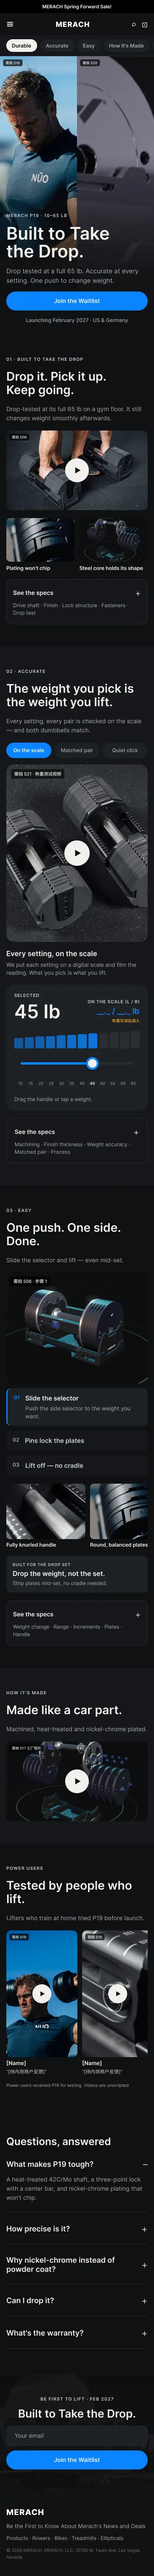
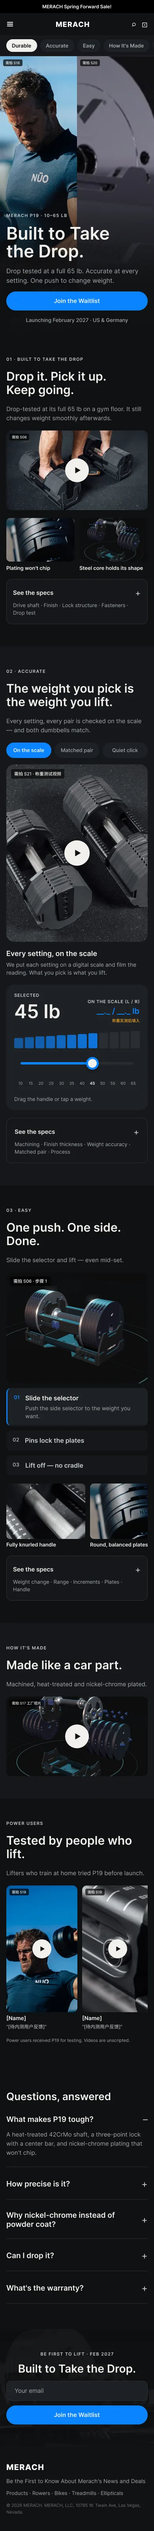
Explore V7: compress Easy screen, tidy Figma canvas layout, update screen ratios
Claude-Session: https://claude.ai/code/session_01RNRjNYdB2DmXKuzbHkJAw4

diff --git a/handoff.html b/handoff.html
@@ -47,21 +47,21 @@ blockquote{margin:12px 0;padding:8px 14px;border-left:3px solid var(--accent);ba
 <li>屏占比口径：PC 按视口 1440×900 计 1 屏，Mobile 按 390×844 计 1 屏。</li>
 <li>英文主张 Built to Take the Drop 已确定；页面按“主张 → 三支柱”组织。</li></ul>
 <h2>二、屏占比</h2>
-<p>首屏全屏：Header + Hero 合计正好 1 屏（PC 1440×900、Mobile 390×844）。Header 含支柱导航，支柱导航吸顶。Accurate 与 Easy 承载演示与交互，允许超过 1 屏。</p>
-<div class="tw"><table><thead><tr><th>模块</th><th>锚点</th><th>PC 高度 px</th><th>PC 屏占比</th><th>Mobile 高度 px</th><th>Mobile 屏占比</th></tr></thead><tbody><tr><td>Header（广告位 + 导航 + 支柱导航，吸顶）</td><td>—</td><td>165</td><td>0.18</td><td>142</td><td>0.17</td></tr><tr><td>Screen 1 · Hero（全屏）</td><td>#top</td><td>735</td><td>0.82（与 Header 合计 1.00）</td><td>702</td><td>0.83（与 Header 合计 1.00）</td></tr><tr><td>Screen 2 · Durable（耐摔）</td><td>#durable</td><td>945</td><td>1.05</td><td>788</td><td>0.93</td></tr><tr><td>Screen 3 · Accurate（高精度）</td><td>#accurate</td><td>1372</td><td>1.52</td><td>1361</td><td>1.61</td></tr><tr><td>Screen 4 · Easy（易用 + 细节 + Drop Set）</td><td>#easy</td><td>1399</td><td>1.55</td><td>1218</td><td>1.44</td></tr><tr><td>Screen 5 · How It’s Made（工艺短片）</td><td>#made</td><td>940</td><td>1.04</td><td>443</td><td>0.52</td></tr><tr><td>Screen 6 · Power Users</td><td>#power-users</td><td>862</td><td>0.96</td><td>673</td><td>0.80</td></tr><tr><td>Screen 7 · FAQ</td><td>#faq</td><td>752</td><td>0.84</td><td>667</td><td>0.79</td></tr><tr><td>Waitlist</td><td>#waitlist</td><td>396</td><td>0.44</td><td>297</td><td>0.35</td></tr><tr><td>Footer</td><td>—</td><td>260</td><td>0.29</td><td>213</td><td>0.25</td></tr><tr><td><b>合计</b></td><td></td><td><b>7826</b></td><td><b>8.70 屏</b></td><td><b>6504</b></td><td><b>7.71 屏</b></td></tr></tbody></table></div>
+<p>首屏全屏：Header + Hero 合计正好 1 屏（PC 1440×900、Mobile 390×844）。Header 含支柱导航，支柱导航吸顶。Accurate 承载画廊与滑块，允许约 1.5 屏；Easy 已压缩到约 1.3 屏（细节图与 Drop Set 卡同排）。</p>
+<div class="tw"><table><thead><tr><th>模块</th><th>锚点</th><th>PC 高度 px</th><th>PC 屏占比</th><th>Mobile 高度 px</th><th>Mobile 屏占比</th></tr></thead><tbody><tr><td>Header（广告位 + 导航 + 支柱导航，吸顶）</td><td>—</td><td>165</td><td>0.18</td><td>142</td><td>0.17</td></tr><tr><td>Screen 1 · Hero（全屏）</td><td>#top</td><td>735</td><td>0.82（与 Header 合计 1.00）</td><td>702</td><td>0.83（与 Header 合计 1.00）</td></tr><tr><td>Screen 2 · Durable（耐摔）</td><td>#durable</td><td>945</td><td>1.05</td><td>788</td><td>0.93</td></tr><tr><td>Screen 3 · Accurate（高精度）</td><td>#accurate</td><td>1372</td><td>1.52</td><td>1361</td><td>1.61</td></tr><tr><td>Screen 4 · Easy（易用 + 细节 + Drop Set）</td><td>#easy</td><td>1146</td><td>1.27</td><td>1105</td><td>1.31</td></tr><tr><td>Screen 5 · How It’s Made（工艺短片）</td><td>#made</td><td>940</td><td>1.04</td><td>443</td><td>0.52</td></tr><tr><td>Screen 6 · Power Users</td><td>#power-users</td><td>862</td><td>0.96</td><td>673</td><td>0.80</td></tr><tr><td>Screen 7 · FAQ</td><td>#faq</td><td>752</td><td>0.84</td><td>667</td><td>0.79</td></tr><tr><td>Waitlist</td><td>#waitlist</td><td>396</td><td>0.44</td><td>297</td><td>0.35</td></tr><tr><td>Footer</td><td>—</td><td>260</td><td>0.29</td><td>213</td><td>0.25</td></tr><tr><td><b>合计</b></td><td></td><td><b>7573</b></td><td><b>8.41 屏</b></td><td><b>6391</b></td><td><b>7.57 屏</b></td></tr></tbody></table></div>
 <h2>三、全局规范</h2>
 <h3>颜色</h3><div class="tw"><table><thead><tr><th>用途</th><th>色值</th><th>使用位置</th></tr></thead><tbody><tr><td>页面底</td><td>#0F1012</td><td>Hero、Durable、Accurate、FAQ</td></tr><tr><td>区块底</td><td>#16181B</td><td>支柱导航、规格抽屉、Easy</td></tr><tr><td>卡片</td><td>#1E2125</td><td>证据卡、滑块面板、画廊当前标签</td></tr><tr><td>分隔线</td><td>#2A2E33</td><td>卡片描边、三栏分隔</td></tr><tr><td>主文字</td><td>#F1F0EC</td><td>标题、强调</td></tr><tr><td>辅助文字</td><td>#A3A7AD</td><td>正文、说明</td></tr><tr><td>钢灰</td><td>#C7CCD2</td><td>Eyebrow、图形线条</td></tr><tr><td>主色</td><td>#0A84FF</td><td>按钮、滑块、当前标签与配重片高亮</td></tr><tr><td>待确认标记</td><td>#F5A524</td><td>仅设计稿使用，上线前删除</td></tr></tbody></table></div>
 <h3>字号</h3><p>设计稿字体为 Inter；如独立站已有品牌字体，以站内字体为准，字号与字重按下表。</p><div class="tw"><table><thead><tr><th>层级</th><th>PC</th><th>Mobile</th></tr></thead><tbody><tr><td>H1</td><td>72 / Semi Bold，行高 102%</td><td>44 / Semi Bold</td></tr><tr><td>H2</td><td>46 / Semi Bold</td><td>30 / Semi Bold</td></tr><tr><td>Eyebrow</td><td>12 / Semi Bold，全大写，字距 14%</td><td>11 / Semi Bold</td></tr><tr><td>正文</td><td>18 / Regular，行高 155%</td><td>15 / Regular</td></tr><tr><td>卡片标题</td><td>17 / Semi Bold</td><td>14 / Semi Bold</td></tr><tr><td>说明</td><td>14 / Regular</td><td>12–13 / Regular</td></tr><tr><td>按钮</td><td>15 / Semi Bold，高 52，全圆角</td><td>同 PC，通栏</td></tr></tbody></table></div>
 <p>圆角：图片与卡片 12–16，按钮与胶囊全圆角。屏与屏之间不留间距，靠 #0F1012 / #16181B 交替区分。</p>
 <h2>四、部件说明</h2>
-<div class="tw"><table><thead><tr><th>部件</th><th>位置</th><th>PC</th><th>Mobile</th><th>交互与状态</th></tr></thead><tbody><tr><td>顶部广告位 / 导航栏</td><td>全站</td><td>复用现有 Header</td><td>复用移动端 Header</td><td>随页面滚走</td></tr><tr><td>支柱导航</td><td>Header 下方</td><td>高 64，6 个锚点 + 上市时间 + Mini CTA</td><td>高 53，横滑胶囊</td><td>吸顶（sticky）、滚动高亮、平滑滚动</td></tr><tr><td>Hero</td><td>Screen 1</td><td>高 = 100vh − Header；人物 / 产品各 720 宽铺满；左侧渐变，文案垂直居中</td><td>高 = 100vh − Header；人物 / 产品各 195 宽铺满；底部渐变，文案压在底部</td><td>一个主按钮 + 上市时间</td></tr><tr><td>视频位 + 弹窗</td><td>Screen 2、3、5、6</td><td>16:9；竖版 224×398</td><td>全屏弹窗</td><td>点击播放，关闭停止</td></tr><tr><td>证据卡</td><td>Screen 2</td><td>右侧两张产品图卡</td><td>两列</td><td>静态</td></tr><tr><td>精度画廊（Accurate Proof Gallery）</td><td>Screen 3</td><td>左大图 788×500 + 右侧 3 张标签卡</td><td>标签 + 大图 358×448 + 说明</td><td>点击切换；Mobile 可左右滑动</td></tr><tr><td>拖拽重量滑块（Weight Drag Slider）</td><td>Screen 3</td><td>宽 1200；大数字 + 左 / 右实测读数 + 12 段配重片 + 滑轨 + 刻度</td><td>宽 358，同结构</td><td>拖拽 / 点击刻度，吸附 5 lb</td></tr><tr><td>See the specs（规格抽屉）</td><td>Screen 2、3、4</td><td>收起时显示规格项目名；展开为三列表格</td><td>展开为纵向堆叠</td><td>点击展开 / 收起</td></tr><tr><td>步骤演示</td><td>Screen 4</td><td>主图 640×420 + 右侧 3 步</td><td>主图 358×280 + 纵向 3 步</td><td>点击切换；Mobile 可滑动</td></tr><tr><td>细节卡</td><td>Screen 4</td><td>3 张产品图 384×160</td><td>横滑 200×140</td><td>静态</td></tr><tr><td>Drop Set 模块</td><td>Screen 4</td><td>卡片内 3 张 140×110</td><td>文字卡</td><td>注释必须保留</td></tr><tr><td>工艺标签</td><td>Screen 5</td><td>3 个胶囊</td><td>—</td><td>静态</td></tr><tr><td>内测用户视频卡</td><td>Screen 6</td><td>5 张 9:16 卡片</td><td>横滑 4 张</td><td>点击竖版弹窗播放；FTC 披露</td></tr><tr><td>FAQ</td><td>Screen 7</td><td>宽 1200</td><td>通栏</td><td>手风琴；FAQPage 结构化数据</td></tr><tr><td>Waitlist 表单</td><td>Waitlist</td><td>输入框 + 按钮横排</td><td>上下堆叠</td><td>默认 / 加载 / 成功 / 错误</td></tr><tr><td>Footer</td><td>全站</td><td>复用</td><td>复用</td><td>不新开发</td></tr></tbody></table></div>
+<div class="tw"><table><thead><tr><th>部件</th><th>位置</th><th>PC</th><th>Mobile</th><th>交互与状态</th></tr></thead><tbody><tr><td>顶部广告位 / 导航栏</td><td>全站</td><td>复用现有 Header</td><td>复用移动端 Header</td><td>随页面滚走</td></tr><tr><td>支柱导航</td><td>Header 下方</td><td>高 64，6 个锚点 + 上市时间 + Mini CTA</td><td>高 53，横滑胶囊</td><td>吸顶（sticky）、滚动高亮、平滑滚动</td></tr><tr><td>Hero</td><td>Screen 1</td><td>高 = 100vh − Header；人物 / 产品各 720 宽铺满；左侧渐变，文案垂直居中</td><td>高 = 100vh − Header；人物 / 产品各 195 宽铺满；底部渐变，文案压在底部</td><td>一个主按钮 + 上市时间</td></tr><tr><td>视频位 + 弹窗</td><td>Screen 2、3、5、6</td><td>16:9；竖版 224×398</td><td>全屏弹窗</td><td>点击播放，关闭停止</td></tr><tr><td>证据卡</td><td>Screen 2</td><td>右侧两张产品图卡</td><td>两列</td><td>静态</td></tr><tr><td>精度画廊（Accurate Proof Gallery）</td><td>Screen 3</td><td>左大图 788×500 + 右侧 3 张标签卡</td><td>标签 + 大图 358×448 + 说明</td><td>点击切换；Mobile 可左右滑动</td></tr><tr><td>拖拽重量滑块（Weight Drag Slider）</td><td>Screen 3</td><td>宽 1200；大数字 + 左 / 右实测读数 + 12 段配重片 + 滑轨 + 刻度</td><td>宽 358，同结构</td><td>拖拽 / 点击刻度，吸附 5 lb</td></tr><tr><td>See the specs（规格抽屉）</td><td>Screen 2、3、4</td><td>收起时显示规格项目名；展开为三列表格</td><td>展开为纵向堆叠</td><td>点击展开 / 收起</td></tr><tr><td>步骤演示</td><td>Screen 4</td><td>主图 640×420 + 右侧 3 步</td><td>主图 358×280 + 纵向 3 步</td><td>点击切换；Mobile 可滑动</td></tr><tr><td>细节卡 + Drop Set 卡</td><td>Screen 4</td><td>四卡同排：3 张产品图 282×140 + 1 张 Drop Set 文字卡</td><td>同一行横滑 200×162 ×4</td><td>静态；Drop Set 注释必须保留</td></tr><tr><td>工艺标签</td><td>Screen 5</td><td>3 个胶囊</td><td>—</td><td>静态</td></tr><tr><td>内测用户视频卡</td><td>Screen 6</td><td>5 张 9:16 卡片</td><td>横滑 4 张</td><td>点击竖版弹窗播放；FTC 披露</td></tr><tr><td>FAQ</td><td>Screen 7</td><td>宽 1200</td><td>通栏</td><td>手风琴；FAQPage 结构化数据</td></tr><tr><td>Waitlist 表单</td><td>Waitlist</td><td>输入框 + 按钮横排</td><td>上下堆叠</td><td>默认 / 加载 / 成功 / 错误</td></tr><tr><td>Footer</td><td>全站</td><td>复用</td><td>复用</td><td>不新开发</td></tr></tbody></table></div>
 <h2>五、交互清单</h2>
 <div class="tw"><table><thead><tr><th>元素</th><th>交互</th></tr></thead><tbody><tr><td>Join the Waitlist（首屏、吸顶导航）</td><td>悬停变色；点击滚动到 #waitlist</td></tr><tr><td>支柱导航（吸顶）</td><td>position: sticky; top: 0，滚动后一直置顶；当前所在屏高亮；点击平滑滚动。锚点：Durable / Accurate / Easy / How It’s Made / Power Users / FAQ</td></tr><tr><td>视频播放按钮</td><td>点击弹窗播放：跌落测试、称重测试、工厂短片、内测用户竖版视频；Mobile 为全屏</td></tr><tr><td>精度画廊</td><td>PC：点击右侧三张标签卡切换左侧大图；Mobile：点击标签或左右滑动切换；称重卡带播放按钮</td></tr><tr><td>拖拽重量滑块</td><td>拖动把手或点击刻度，10–65 lb 每 5 lb 一档，吸附到档位；大数字、配重片高亮、左 / 右实测读数同步变化（实测值称重后填入）</td></tr><tr><td>See the specs</td><td>点击展开 / 收起；展开为“规格 / 参数 / 对用户意味着什么”，PC 三列表格，Mobile 纵向堆叠；三屏各 5 行</td></tr><tr><td>Easy 步骤</td><td>PC 点击 01 / 02 / 03 切换主图；Mobile 点击步骤或左右滑动图片切换</td></tr><tr><td>FAQ 手风琴</td><td>默认展开第 1 条，同时只展开 1 条</td></tr><tr><td>Waitlist 表单</td><td>提交 → 加载 → 成功；错误态（PC 与 Mobile 一致）</td></tr></tbody></table></div>
 <p>所有组件的状态（悬停、展开、切换、表单流程）已在 Figma 组件区全部展开，可直接在原型中点击体验：</p>
 <img src="assets/explore-v5-components.webp" alt="Explore V7 交互组件与状态" loading="lazy">
 <h2>六、图片与视频位</h2>
 <p>请按下表尺寸出 2 倍图，格式 WebP；视频提供 MP4（H.264）与封面图。当前全部为占位图，上线前替换为实拍。</p>
-<div class="tw"><table><thead><tr><th>图位（拍摄编号）</th><th>PC 尺寸</th><th>Mobile 尺寸</th><th>说明</th></tr></thead><tbody><tr><td>hero 人物（S18）</td><td>720×735</td><td>195×702</td><td>人物使用场景，竖向裁切需保留人物主体</td></tr><tr><td>hero 产品静物（S20）</td><td>720×735</td><td>195×702</td><td>居家空间中的 P19</td></tr><tr><td>跌落测试（S06）</td><td>792×446 + MP4</td><td>358×201</td><td>正式跌落测试视频</td></tr><tr><td>称重测试（S21）</td><td>788×500 + MP4</td><td>358×448</td><td>各档上秤，读数特写</td></tr><tr><td>天平（S22）</td><td>788×500</td><td>358×448</td><td>两只等重，天平水平</td></tr><tr><td>插销微距（S23）</td><td>788×500 + MP4</td><td>358×448</td><td>插销慢动作，同期收音</td></tr><tr><td>证据卡（S07、S15）</td><td>384×140</td><td>173×110</td><td>爆炸图；电镀表面</td></tr><tr><td>步骤（S03–S05）</td><td>640×420 ×3</td><td>358×280 ×3</td><td>建议静音循环短视频</td></tr><tr><td>细节（S14、S15）</td><td>384×160 ×3</td><td>200×140 ×3</td><td>握把、圆形配重、档位</td></tr><tr><td>工厂短片（S17）</td><td>1200×540 + MP4</td><td>358×201</td><td>15 秒：机加工、热处理、电镀</td></tr><tr><td>内测用户（S19）</td><td>224×398 封面 + 9:16 MP4 ×5</td><td>180×320 ×4</td><td>由内测用户提供</td></tr><tr><td>waitlist bg</td><td>1440×396</td><td>390×297</td><td>文字区压暗</td></tr></tbody></table></div>
+<div class="tw"><table><thead><tr><th>图位（拍摄编号）</th><th>PC 尺寸</th><th>Mobile 尺寸</th><th>说明</th></tr></thead><tbody><tr><td>hero 人物（S18）</td><td>720×735</td><td>195×702</td><td>人物使用场景，竖向裁切需保留人物主体</td></tr><tr><td>hero 产品静物（S20）</td><td>720×735</td><td>195×702</td><td>居家空间中的 P19</td></tr><tr><td>跌落测试（S06）</td><td>792×446 + MP4</td><td>358×201</td><td>正式跌落测试视频</td></tr><tr><td>称重测试（S21）</td><td>788×500 + MP4</td><td>358×448</td><td>各档上秤，读数特写</td></tr><tr><td>天平（S22）</td><td>788×500</td><td>358×448</td><td>两只等重，天平水平</td></tr><tr><td>插销微距（S23）</td><td>788×500 + MP4</td><td>358×448</td><td>插销慢动作，同期收音</td></tr><tr><td>证据卡（S07、S15）</td><td>384×140</td><td>173×110</td><td>爆炸图；电镀表面</td></tr><tr><td>步骤（S03–S05）</td><td>640×420 ×3</td><td>358×280 ×3</td><td>建议静音循环短视频</td></tr><tr><td>细节（S14、S15）</td><td>282×140 ×3</td><td>200×140 ×3</td><td>握把、圆形配重、档位</td></tr><tr><td>工厂短片（S17）</td><td>1200×540 + MP4</td><td>358×201</td><td>15 秒：机加工、热处理、电镀</td></tr><tr><td>内测用户（S19）</td><td>224×398 封面 + 9:16 MP4 ×5</td><td>180×320 ×4</td><td>由内测用户提供</td></tr><tr><td>waitlist bg</td><td>1440×396</td><td>390×297</td><td>文字区压暗</td></tr></tbody></table></div>
 <h2>七、待确认</h2>
 <ul><li>重量精度 ±1.5%：待工厂确认实测数据，未确认前 Screen 3 规格抽屉与 FAQ 相关内容不得上线。</li>
 <li>跌落测试高度与次数：待正式报告，确认后补入 Screen 2 与视频弹窗说明。</li>

diff --git a/explore.html b/explore.html
@@ -47,10 +47,11 @@ blockquote{margin:12px 0;padding:8px 14px;border-left:3px solid var(--accent);ba
 <li><b>支柱导航吸顶：</b>Durable / Accurate / Easy 等锚点在滚动时一直置顶。</li>
 <li><b>高精度：</b>改为大图画廊（一次看一张大图，Mobile 也看得清）加拖拽重量滑块。</li>
 <li><b>See the specs：</b>工艺数值展开后讲清“参数是什么、对用户意味着什么”，每屏 5 行。</li>
+<li><b>Easy 屏压缩：</b>三张细节图与 Drop Set 卡并为一排，PC 由 1.55 屏压到 1.27 屏。</li>
 <li><b>删除 Your Space 屏；</b>Mobile 与 PC 交互一致（画廊、滑块、步骤、规格、表单均可点击）。</li>
 </ul>
 <h2>页面结构</h2>
-<div class="tw"><table><thead><tr><th>屏</th><th>模块</th><th>要点</th></tr></thead><tbody><tr><td>1</td><td>Hero（全屏）</td><td>Built to Take the Drop.；人与产品各半铺满首屏；一个主按钮</td></tr><tr><td>—</td><td>支柱导航</td><td>吸顶；滚动高亮；点击平滑滚动</td></tr><tr><td>2</td><td>Durable · 耐摔</td><td>跌落测试视频 + 两张产品证据卡；See the specs（传动轴、表面、锁固结构、螺栓、跌落测试）</td></tr><tr><td>3</td><td>Accurate · 高精度</td><td>大图画廊（称重 / 天平 / 插销微距）+ 拖拽重量滑块；See the specs（加工、镀层厚度、重量精度、配对、工序）</td></tr><tr><td>4</td><td>Easy · 易用</td><td>三步演示 + 握把 / 圆形配重 / 档位 + Drop Set；See the specs（换重方式、重量范围、档位、配重片、握把）</td></tr><tr><td>5</td><td>How It’s Made · 工艺</td><td>15 秒工厂短片 + 三个工艺标签</td></tr><tr><td>6</td><td>Power Users · 内测用户</td><td>3–5 条竖版短视频，点击播放；FTC 披露</td></tr><tr><td>7</td><td>FAQ + Waitlist</td><td>手风琴；等待名单表单</td></tr></tbody></table></div>
+<div class="tw"><table><thead><tr><th>屏</th><th>模块</th><th>要点</th></tr></thead><tbody><tr><td>1</td><td>Hero（全屏）</td><td>Built to Take the Drop.；人与产品各半铺满首屏；一个主按钮</td></tr><tr><td>—</td><td>支柱导航</td><td>吸顶；滚动高亮；点击平滑滚动</td></tr><tr><td>2</td><td>Durable · 耐摔</td><td>跌落测试视频 + 两张产品证据卡；See the specs（传动轴、表面、锁固结构、螺栓、跌落测试）</td></tr><tr><td>3</td><td>Accurate · 高精度</td><td>大图画廊（称重 / 天平 / 插销微距）+ 拖拽重量滑块；See the specs（加工、镀层厚度、重量精度、配对、工序）</td></tr><tr><td>4</td><td>Easy · 易用</td><td>三步演示 + 握把 / 圆形配重 / 档位与 Drop Set 四卡同排（Mobile 横滑）；See the specs（换重方式、重量范围、档位、配重片、握把）</td></tr><tr><td>5</td><td>How It’s Made · 工艺</td><td>15 秒工厂短片 + 三个工艺标签</td></tr><tr><td>6</td><td>Power Users · 内测用户</td><td>3–5 条竖版短视频，点击播放；FTC 披露</td></tr><tr><td>7</td><td>FAQ + Waitlist</td><td>手风琴；等待名单表单</td></tr></tbody></table></div>
 <h2>交互清单</h2>
 <div class="tw"><table><thead><tr><th>元素</th><th>交互</th></tr></thead><tbody><tr><td>Join the Waitlist（首屏、吸顶导航）</td><td>悬停变色；点击滚动到 #waitlist</td></tr><tr><td>支柱导航（吸顶）</td><td>position: sticky; top: 0，滚动后一直置顶；当前所在屏高亮；点击平滑滚动。锚点：Durable / Accurate / Easy / How It’s Made / Power Users / FAQ</td></tr><tr><td>视频播放按钮</td><td>点击弹窗播放：跌落测试、称重测试、工厂短片、内测用户竖版视频；Mobile 为全屏</td></tr><tr><td>精度画廊</td><td>PC：点击右侧三张标签卡切换左侧大图；Mobile：点击标签或左右滑动切换；称重卡带播放按钮</td></tr><tr><td>拖拽重量滑块</td><td>拖动把手或点击刻度，10–65 lb 每 5 lb 一档，吸附到档位；大数字、配重片高亮、左 / 右实测读数同步变化（实测值称重后填入）</td></tr><tr><td>See the specs</td><td>点击展开 / 收起；展开为“规格 / 参数 / 对用户意味着什么”，PC 三列表格，Mobile 纵向堆叠；三屏各 5 行</td></tr><tr><td>Easy 步骤</td><td>PC 点击 01 / 02 / 03 切换主图；Mobile 点击步骤或左右滑动图片切换</td></tr><tr><td>FAQ 手风琴</td><td>默认展开第 1 条，同时只展开 1 条</td></tr><tr><td>Waitlist 表单</td><td>提交 → 加载 → 成功；错误态（PC 与 Mobile 一致）</td></tr></tbody></table></div>
 <p>所有组件状态已在 Figma 组件区展开：</p>

diff --git a/product.html b/product.html
@@ -749,14 +749,14 @@ mm；工序为下料—开平—割板—粗车—CNC—精车—电镀—检验
 </tbody></table></div>
 <p>产品页与教育页的区别：教育页以视频和交互讲清楚“为什么”；产品页以静态信息图让用户几秒看懂卖点。教育页的视频不能直接当产品页主图，需从中取静帧或另出信息图。</p>
 <h2 id="六explore-教育页与拍摄清单">五、Explore 教育页与拍摄清单</h2>
-<p>Explore 教育页 V7（PC 与 Mobile）已在 <a href="https://www.figma.com/design/44z4t0SOMdf8TVVw1gtSZz/%E6%97%A0%E6%B0%A7P19?node-id=68-608">Figma「无氧P19」文件</a> 完成，并做成可点击原型（<a href="https://www.figma.com/proto/44z4t0SOMdf8TVVw1gtSZz/%E6%97%A0%E6%B0%A7P19?node-id=68-608&amp;starting-point-node-id=68%3A608">PC</a> / <a href="https://www.figma.com/proto/44z4t0SOMdf8TVVw1gtSZz/%E6%97%A0%E6%B0%A7P19?node-id=70-679&amp;starting-point-node-id=70%3A679">Mobile</a>），PC 与 Mobile 交互一致。11/18 二轮调整：首屏全屏，只留一个主按钮；支柱导航吸顶；高精度屏改为大图画廊加拖拽滑块；删除 Your Space 屏；三个 See the specs 展开为“规格 / 参数 / 对用户意味着什么”的详细说明。PC 全长 7,826px（约 8.7 屏），Mobile 全长 6,504px（约 7.7 屏）。屏占比、部件与交互说明见“开发需求”页。</p>
+<p>Explore 教育页 V7（PC 与 Mobile）已在 <a href="https://www.figma.com/design/44z4t0SOMdf8TVVw1gtSZz/%E6%97%A0%E6%B0%A7P19?node-id=68-608">Figma「无氧P19」文件</a> 完成，并做成可点击原型（<a href="https://www.figma.com/proto/44z4t0SOMdf8TVVw1gtSZz/%E6%97%A0%E6%B0%A7P19?node-id=68-608&amp;starting-point-node-id=68%3A608">PC</a> / <a href="https://www.figma.com/proto/44z4t0SOMdf8TVVw1gtSZz/%E6%97%A0%E6%B0%A7P19?node-id=70-679&amp;starting-point-node-id=70%3A679">Mobile</a>），PC 与 Mobile 交互一致。11/18 二轮调整：首屏全屏，只留一个主按钮；支柱导航吸顶；高精度屏改为大图画廊加拖拽滑块；删除 Your Space 屏；三个 See the specs 展开为“规格 / 参数 / 对用户意味着什么”的详细说明；Easy 屏细节图与 Drop Set 并为一排。PC 全长 7,573px（约 8.4 屏），Mobile 全长 6,391px（约 7.6 屏）。屏占比、部件与交互说明见“开发需求”页。</p>
 <div class="tw"><table>
 <thead><tr class="header"><th>屏</th><th>模块</th><th>图片 / 视频数</th><th>对应拍摄</th></tr></thead>
 <tbody>
 <tr><td>1</td><td>Hero（全屏）：Built to Take the Drop.；人与产品各半；一个主按钮</td><td>2</td><td>S18、S20</td></tr>
 <tr><td>2</td><td>Durable：跌落测试视频 + 两张产品证据卡 + See the specs</td><td>3</td><td>S06、S07、S15</td></tr>
 <tr><td>3</td><td>Accurate：大图画廊（称重 / 天平 / 插销微距，点击或滑动切换）+ 拖拽重量滑块 + See the specs</td><td>3</td><td>S21、S22、S23</td></tr>
-<tr><td>4</td><td>Easy：三步演示 + 握把 / 圆形配重 / 档位 + Drop Set（P1b）+ See the specs</td><td>9</td><td>S03–S05、S10、S11、S14、S15</td></tr>
+<tr><td>4</td><td>Easy：三步演示 + 握把 / 圆形配重 / 档位与 Drop Set（P1b）四卡同排 + See the specs</td><td>9</td><td>S03–S05、S10、S11、S14、S15</td></tr>
 <tr><td>5</td><td>How It’s Made：15 秒工厂短片 + 三个工艺标签</td><td>1</td><td>S17</td></tr>
 <tr><td>6</td><td>Power Users：内测用户竖版短视频 3–5 条</td><td>5</td><td>S19</td></tr>
 <tr><td>7</td><td>FAQ（手风琴）+ 等待名单表单</td><td>—</td><td>—</td></tr>
